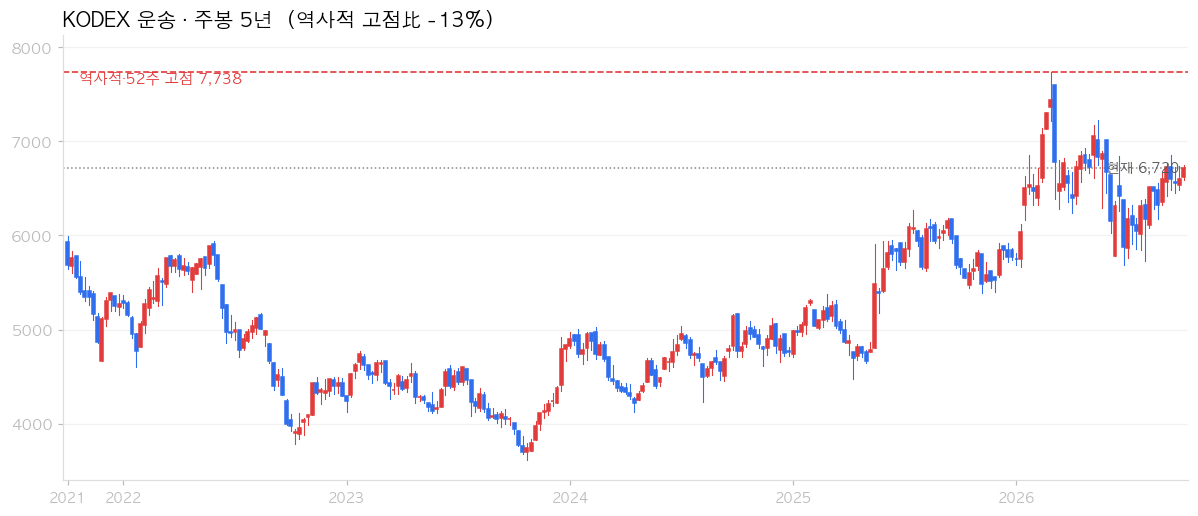
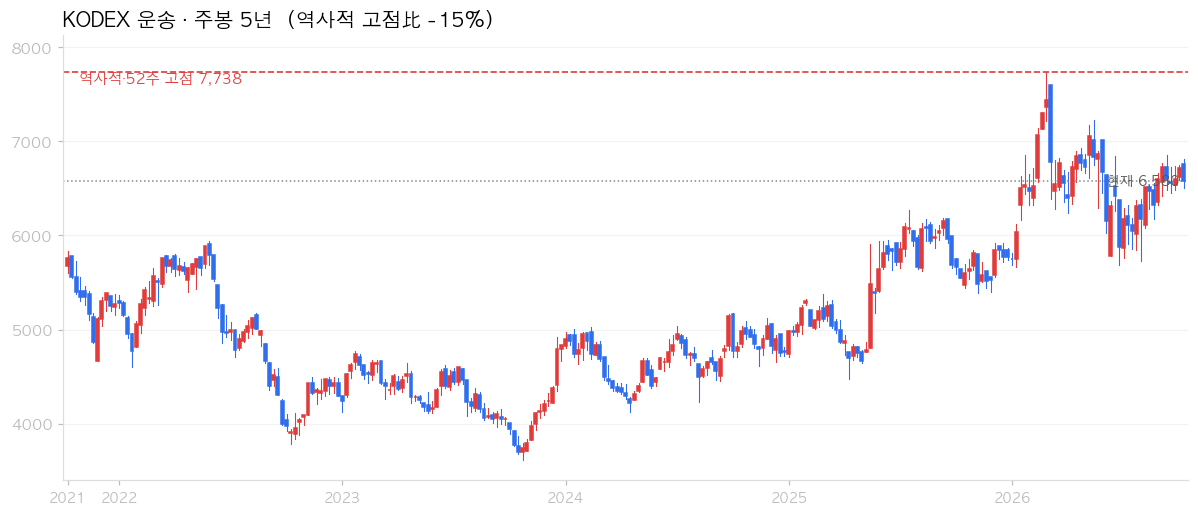
산업 사이클 지도 2026-10-11

diff --git a/_posts/2026-10-11-etf-cycle.md b/_posts/2026-10-11-etf-cycle.md
@@ -1,0 +1,111 @@
+---
+title: "산업 사이클 지도 — 지금 어느 업종이 저점권일까 (2026.10 둘째주)"
+categories: [money]
+tags: [주식투자, ETF, 산업사이클]
+permalink: /money/2026-10-11-etf-cycle/
+excerpt: "산업 ETF 주봉 5년 + 역사적/52주 고점 · 저점권 게임, 미디어·엔터, 2차전지, 바이오·헬스, 증권, 방산, 조선, 자동차"
+header:
+  og_image: /assets/images/etf-cycle/300950.png
+---
+
+업종은 저마다의 사이클로 고점·저점을 반복합니다. 산업 ETF 주봉(5년)에 **역사적 고점·52주 고점 선**을 그어, 지금 각 업종이 고점 대비 어디쯤인지 장기 관점으로 기록합니다. 낙폭이 깊은 **저점권**부터 정렬했습니다. (매수 추천이 아니라 위치 기록)
+
+#### 게임 · 저점권  (KODEX 게임산업 · 300950)
+
+<img src="/assets/images/etf-cycle/300950.png" alt="게임 주봉" style="width:100%;max-width:760px">
+
+고점 대비 -74%. 사이클 저점권 — 장기 관찰 대상. [📈 차트 크게 보기(줌)](https://finance.naver.com/item/fchart.naver?code=300950)
+
+#### 미디어·엔터 · 저점권  (KODEX 미디어&엔터 · 266360)
+
+<img src="/assets/images/etf-cycle/266360.png" alt="미디어·엔터 주봉" style="width:100%;max-width:760px">
+
+고점 대비 -67%. 사이클 저점권 — 장기 관찰 대상. [📈 차트 크게 보기(줌)](https://finance.naver.com/item/fchart.naver?code=266360)
+
+#### 2차전지 · 저점권  (KODEX 2차전지산업 · 305720)
+
+<img src="/assets/images/etf-cycle/305720.png" alt="2차전지 주봉" style="width:100%;max-width:760px">
+
+고점 대비 -61%. 사이클 저점권 — 장기 관찰 대상. [📈 차트 크게 보기(줌)](https://finance.naver.com/item/fchart.naver?code=305720)
+
+#### 바이오·헬스 · 저점권  (KODEX 바이오 · 244580)
+
+<img src="/assets/images/etf-cycle/244580.png" alt="바이오·헬스 주봉" style="width:100%;max-width:760px">
+
+고점 대비 -55%. 사이클 저점권 — 장기 관찰 대상. [📈 차트 크게 보기(줌)](https://finance.naver.com/item/fchart.naver?code=244580)
+
+#### 증권 · 저점권  (KODEX 증권 · 102970)
+
+<img src="/assets/images/etf-cycle/102970.png" alt="증권 주봉" style="width:100%;max-width:760px">
+
+고점 대비 -51%. 사이클 저점권 — 장기 관찰 대상. [📈 차트 크게 보기(줌)](https://finance.naver.com/item/fchart.naver?code=102970)
+
+#### 방산 · 저점권  (PLUS K방산 · 449450)
+
+<img src="/assets/images/etf-cycle/449450.png" alt="방산 주봉" style="width:100%;max-width:760px">
+
+고점 대비 -48%. 사이클 저점권 — 장기 관찰 대상. [📈 차트 크게 보기(줌)](https://finance.naver.com/item/fchart.naver?code=449450)
+
+#### 조선 · 저점권  (SOL 조선TOP3플러스 · 466920)
+
+<img src="/assets/images/etf-cycle/466920.png" alt="조선 주봉" style="width:100%;max-width:760px">
+
+고점 대비 -44%. 사이클 저점권 — 장기 관찰 대상. [📈 차트 크게 보기(줌)](https://finance.naver.com/item/fchart.naver?code=466920)
+
+#### 자동차 · 저점권  (KODEX 자동차 · 091180)
+
+<img src="/assets/images/etf-cycle/091180.png" alt="자동차 주봉" style="width:100%;max-width:760px">
+
+고점 대비 -41%. 사이클 저점권 — 장기 관찰 대상. [📈 차트 크게 보기(줌)](https://finance.naver.com/item/fchart.naver?code=091180)
+
+#### 건설 · 중립  (KODEX 건설 · 117700)
+
+<img src="/assets/images/etf-cycle/117700.png" alt="건설 주봉" style="width:100%;max-width:760px">
+
+고점 대비 -36%. 저점권도 고점권도 아닌 중립. [📈 차트 크게 보기(줌)](https://finance.naver.com/item/fchart.naver?code=117700)
+
+#### IT·인터넷 · 중립  (TIGER 200 IT · 139260)
+
+<img src="/assets/images/etf-cycle/139260.png" alt="IT·인터넷 주봉" style="width:100%;max-width:760px">
+
+고점 대비 -35%. 저점권도 고점권도 아닌 중립. [📈 차트 크게 보기(줌)](https://finance.naver.com/item/fchart.naver?code=139260)
+
+#### 철강 · 중립  (KODEX 철강 · 117680)
+
+<img src="/assets/images/etf-cycle/117680.png" alt="철강 주봉" style="width:100%;max-width:760px">
+
+고점 대비 -34%. 저점권도 고점권도 아닌 중립. [📈 차트 크게 보기(줌)](https://finance.naver.com/item/fchart.naver?code=117680)
+
+#### 에너지화학 · 중립  (KODEX 에너지화학 · 117460)
+
+<img src="/assets/images/etf-cycle/117460.png" alt="에너지화학 주봉" style="width:100%;max-width:760px">
+
+고점 대비 -34%. 저점권도 고점권도 아닌 중립. [📈 차트 크게 보기(줌)](https://finance.naver.com/item/fchart.naver?code=117460)
+
+#### 반도체 · 중립  (KODEX 반도체 · 091160)
+
+<img src="/assets/images/etf-cycle/091160.png" alt="반도체 주봉" style="width:100%;max-width:760px">
+
+고점 대비 -23%. 저점권도 고점권도 아닌 중립. [📈 차트 크게 보기(줌)](https://finance.naver.com/item/fchart.naver?code=091160)
+
+#### 운송 · 중립  (KODEX 운송 · 140710)
+
+<img src="/assets/images/etf-cycle/140710.png" alt="운송 주봉" style="width:100%;max-width:760px">
+
+고점 대비 -15%. 저점권도 고점권도 아닌 중립. [📈 차트 크게 보기(줌)](https://finance.naver.com/item/fchart.naver?code=140710)
+
+#### 보험 · 고점권  (KODEX 보험 · 140700)
+
+<img src="/assets/images/etf-cycle/140700.png" alt="보험 주봉" style="width:100%;max-width:760px">
+
+고점 부근(-12%). 위치가 높아 신규 진입은 신중. [📈 차트 크게 보기(줌)](https://finance.naver.com/item/fchart.naver?code=140700)
+
+#### 은행 · 고점권  (KODEX 은행 · 091170)
+
+<img src="/assets/images/etf-cycle/091170.png" alt="은행 주봉" style="width:100%;max-width:760px">
+
+고점 부근(-11%). 위치가 높아 신규 진입은 신중. [📈 차트 크게 보기(줌)](https://finance.naver.com/item/fchart.naver?code=091170)
+
+이번 주 기준 저점권은 **게임, 미디어·엔터, 2차전지, 바이오·헬스, 증권, 방산, 조선, 자동차**. 저는 저점권 업종을 장기 후보로만 적어두고 시간을 두고 봅니다.
+
+> 개인적인 장기 관점 기록이며 특정 종목·ETF의 매수/매도를 권유하지 않습니다. 사이클 위치는 참고용입니다.
